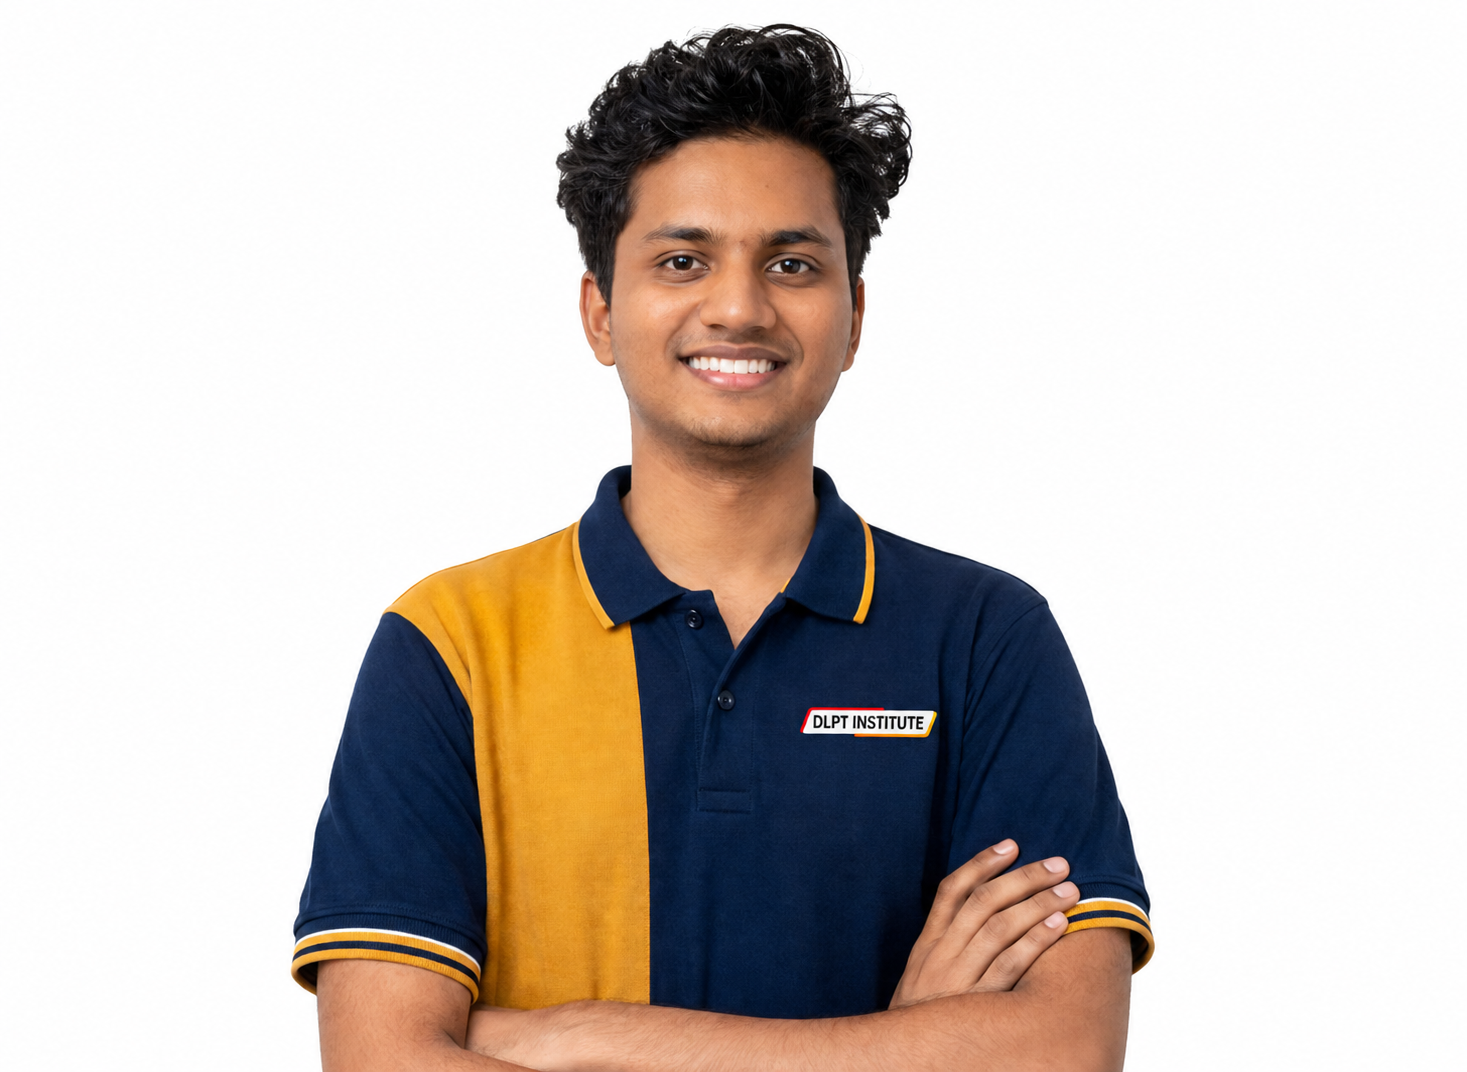
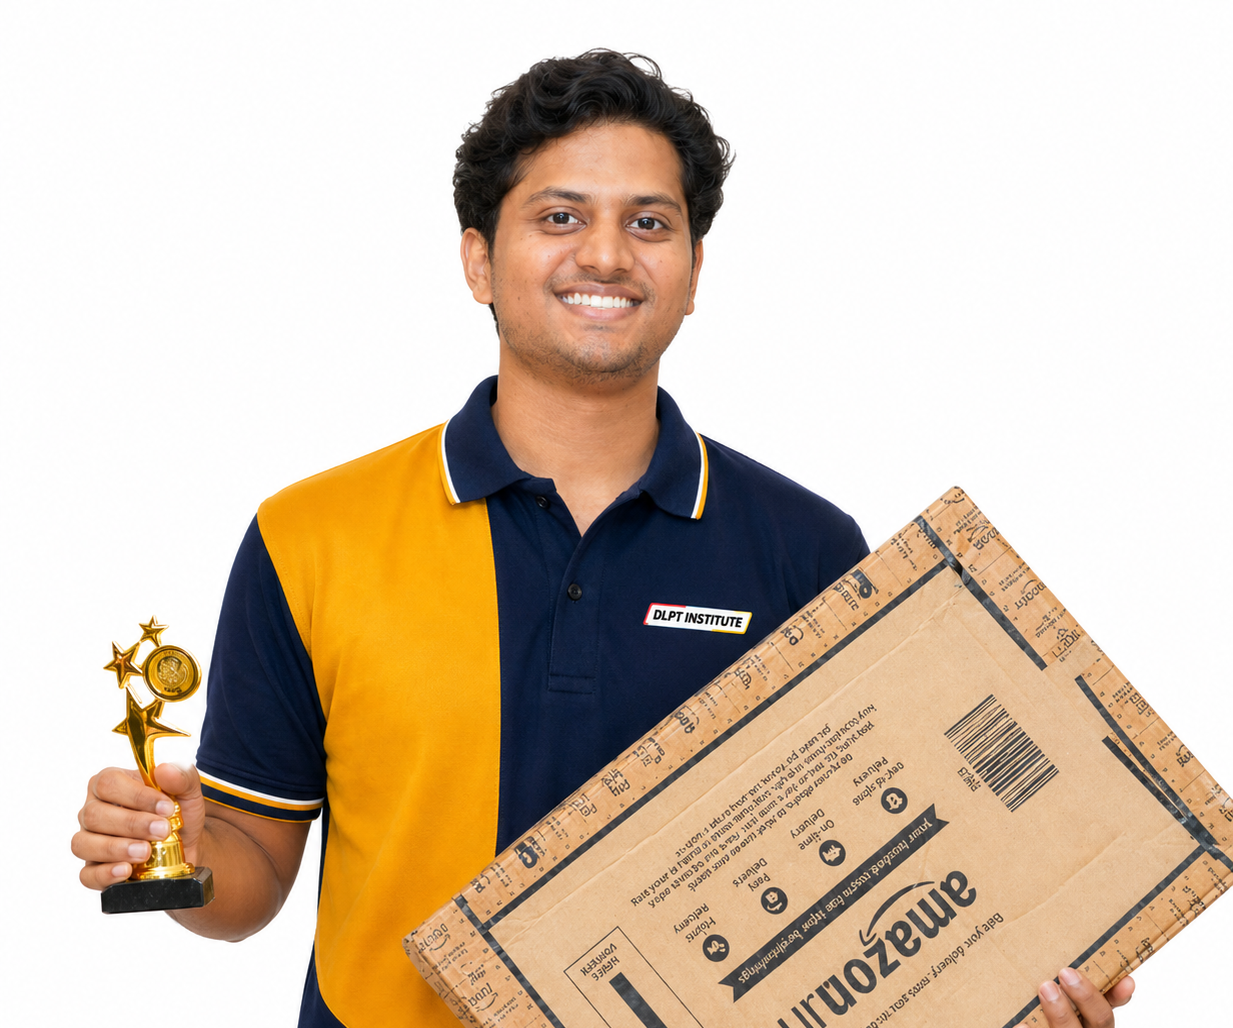
Add Rishi to podium and update photos for Virav, Rishi, Shashi

diff --git a/index.html b/index.html
@@ -274,6 +274,19 @@
                     </div>
                 </div>
 
+                <div class="podium-card podium-bronze">
+                    <div class="podium-photo">
+                        <img src="images/toppers/rishi.png" alt="Rishi">
+                        <div class="podium-initials">R</div>
+                    </div>
+                    <div class="podium-details">
+                        <h3 class="podium-name">Rishi</h3>
+                        <div class="podium-exam">MHT-CET</div>
+                        <div class="podium-score">Top 1% rank in MHT-CET</div>
+                        <div class="podium-college">VJTI Mumbai</div>
+                    </div>
+                </div>
+
             </div>
 
             <!-- CONTINUOUS MARQUEE OF OTHER TOPPERS -->
@@ -290,7 +303,7 @@
                             <div class="marquee-info">
                                 <h4>siddharth</h4>
                                 <p class="marquee-exam">JEE</p>
-                                <p class="marquee-score">98 %ile</p>
+                                <p class="marquee-score">98%ile</p>
                             </div>
                         </div>
                         <div class="marquee-card">
@@ -298,7 +311,7 @@
                             <div class="marquee-info">
                                 <h4>siddhant </h4>
                                 <p class="marquee-exam">CET</p>
-                                <p class="marquee-score">97.3 %ile</p>
+                                <p class="marquee-score">97.3%ile</p>
                             </div>
                         </div>
                         <div class="marquee-card">
@@ -306,7 +319,7 @@
                             <div class="marquee-info">
                                 <h4>sakshi</h4>
                                 <p class="marquee-exam">MHT-CET</p>
-                                <p class="marquee-score">99.1 %ile</p>
+                                <p class="marquee-score">99.1%ile</p>
                             </div>
                         </div>
                         <div class="marquee-card">
@@ -314,7 +327,7 @@
                             <div class="marquee-info">
                                 <h4>ritesh</h4>
                                 <p class="marquee-exam">JEE</p>
-                                <p class="marquee-score">99 %ile</p>
+                                <p class="marquee-score">99%ile</p>
                             </div>
                         </div>
                         <div class="marquee-card">
@@ -322,7 +335,7 @@
                             <div class="marquee-info">
                                 <h4>rishi</h4>
                                 <p class="marquee-exam">MHT-CET</p>
-                                <p class="marquee-score">99 %ile</p>
+                                <p class="marquee-score">99%ile</p>
                             </div>
                         </div>
                         <div class="marquee-card">
@@ -330,7 +343,7 @@
                             <div class="marquee-info">
                                 <h4>raj</h4>
                                 <p class="marquee-exam">MHT-CET</p>
-                                <p class="marquee-score">97 %ile</p>
+                                <p class="marquee-score">97%ile</p>
                             </div>
                         </div>
                         <div class="marquee-card">
@@ -338,7 +351,7 @@
                             <div class="marquee-info">
                                 <h4>hitansh</h4>
                                 <p class="marquee-exam">MHT-CET</p>
-                                <p class="marquee-score">98 %ile</p>
+                                <p class="marquee-score">98%ile</p>
                             </div>
                         </div>
                         <div class="marquee-card">
@@ -346,7 +359,7 @@
                             <div class="marquee-info">
                                 <h4>chaitali</h4>
                                 <p class="marquee-exam">MHT-CET</p>
-                                <p class="marquee-score">99 %ile</p>
+                                <p class="marquee-score">99%ile</p>
                             </div>
                         </div>
                         <div class="marquee-card">
@@ -354,7 +367,7 @@
                             <div class="marquee-info">
                                 <h4>aman</h4>
                                 <p class="marquee-exam">MHT-CET</p>
-                                <p class="marquee-score">98 %ile</p>
+                                <p class="marquee-score">98%ile</p>
                             </div>
                         </div>
                         <!-- Duplicate set for seamless loop -->
@@ -363,15 +376,15 @@
                             <div class="marquee-info">
                                 <h4>siddharth</h4>
                                 <p class="marquee-exam">JEE</p>
-                                <p class="marquee-score">98 %ile</p>
+                                <p class="marquee-score">98%ile</p>
                             </div>
                         </div>
                         <div class="marquee-card">
                             <div class="marquee-photo"><img src="images/toppers/siddhant.png" alt="siddhant"></div>
                             <div class="marquee-info">
                                 <h4>siddhant </h4>
-                                <p class="marquee-exam">CET</p>
-                                <p class="marquee-score">97.3 %ile</p>
+                                <p class="marquee-exam">MHT-CET</p>
+                                <p class="marquee-score">97.3%ile</p>
                             </div>
                         </div>
                         <div class="marquee-card">
@@ -379,7 +392,7 @@
                             <div class="marquee-info">
                                 <h4>sakshi</h4>
                                 <p class="marquee-exam">MHT-CET</p>
-                                <p class="marquee-score">99.1 %ile</p>
+                                <p class="marquee-score">99.1%ile</p>
                             </div>
                         </div>
                         <div class="marquee-card">
@@ -387,7 +400,7 @@
                             <div class="marquee-info">
                                 <h4>ritesh</h4>
                                 <p class="marquee-exam">JEE</p>
-                                <p class="marquee-score">99 %ile</p>
+                                <p class="marquee-score">99%ile</p>
                             </div>
                         </div>
                         <div class="marquee-card">
@@ -395,7 +408,7 @@
                             <div class="marquee-info">
                                 <h4>rishi</h4>
                                 <p class="marquee-exam">MHT-CET</p>
-                                <p class="marquee-score">99 %ile</p>
+                                <p class="marquee-score">99%ile</p>
                             </div>
                         </div>
                         <div class="marquee-card">
@@ -403,7 +416,7 @@
                             <div class="marquee-info">
                                 <h4>raj</h4>
                                 <p class="marquee-exam">MHT-CET</p>
-                                <p class="marquee-score">97 %ile</p>
+                                <p class="marquee-score">97%ile</p>
                             </div>
                         </div>
                         <div class="marquee-card">
@@ -411,7 +424,7 @@
                             <div class="marquee-info">
                                 <h4>hitansh</h4>
                                 <p class="marquee-exam">MHT-CET</p>
-                                <p class="marquee-score">98 %ile</p>
+                                <p class="marquee-score">98%ile</p>
                             </div>
                         </div>
                         <div class="marquee-card">
@@ -419,7 +432,7 @@
                             <div class="marquee-info">
                                 <h4>chaitali</h4>
                                 <p class="marquee-exam">MHT-CET</p>
-                                <p class="marquee-score">99 %ile</p>
+                                <p class="marquee-score">99%ile</p>
                             </div>
                         </div>
                         <div class="marquee-card">
@@ -427,7 +440,7 @@
                             <div class="marquee-info">
                                 <h4>aman</h4>
                                 <p class="marquee-exam">MHT-CET</p>
-                                <p class="marquee-score">98 %ile</p>
+                                <p class="marquee-score">98%ile</p>
                             </div>
                         </div>
                     </div>
